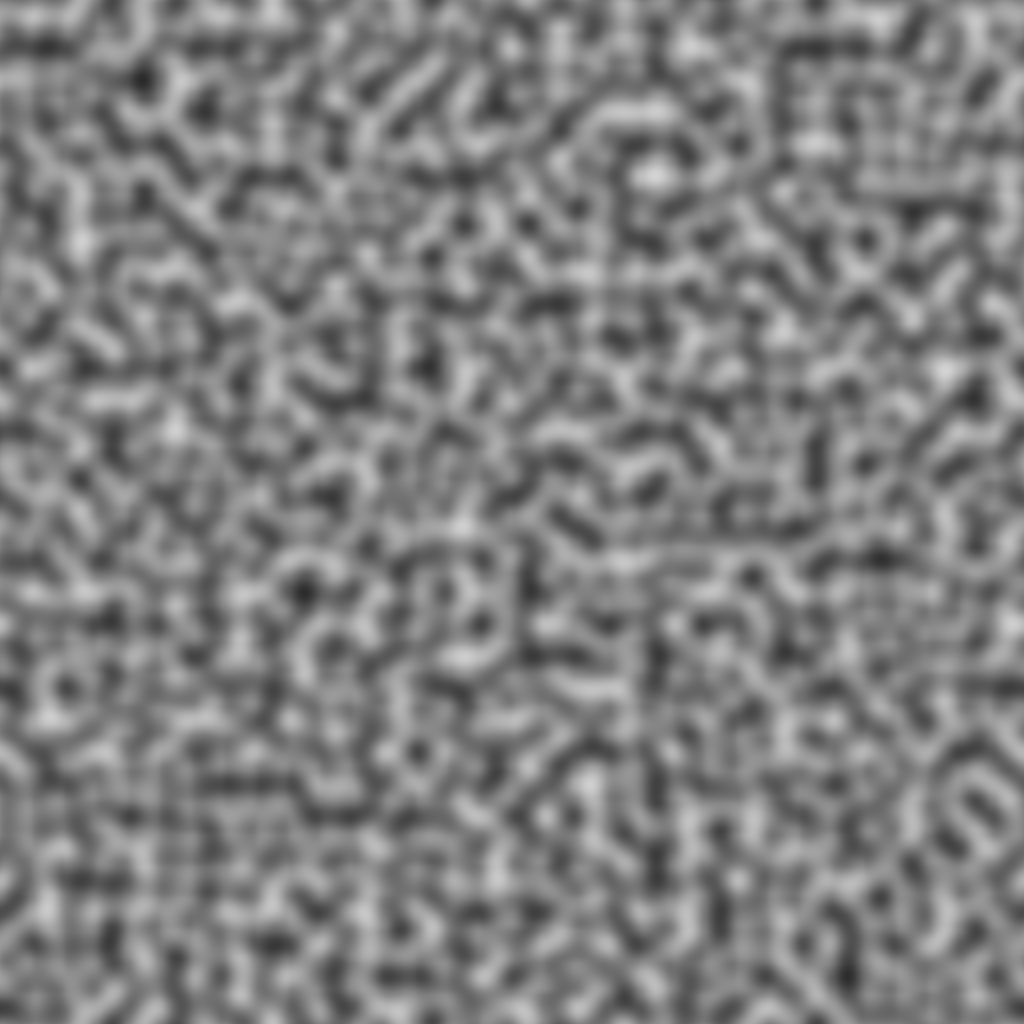
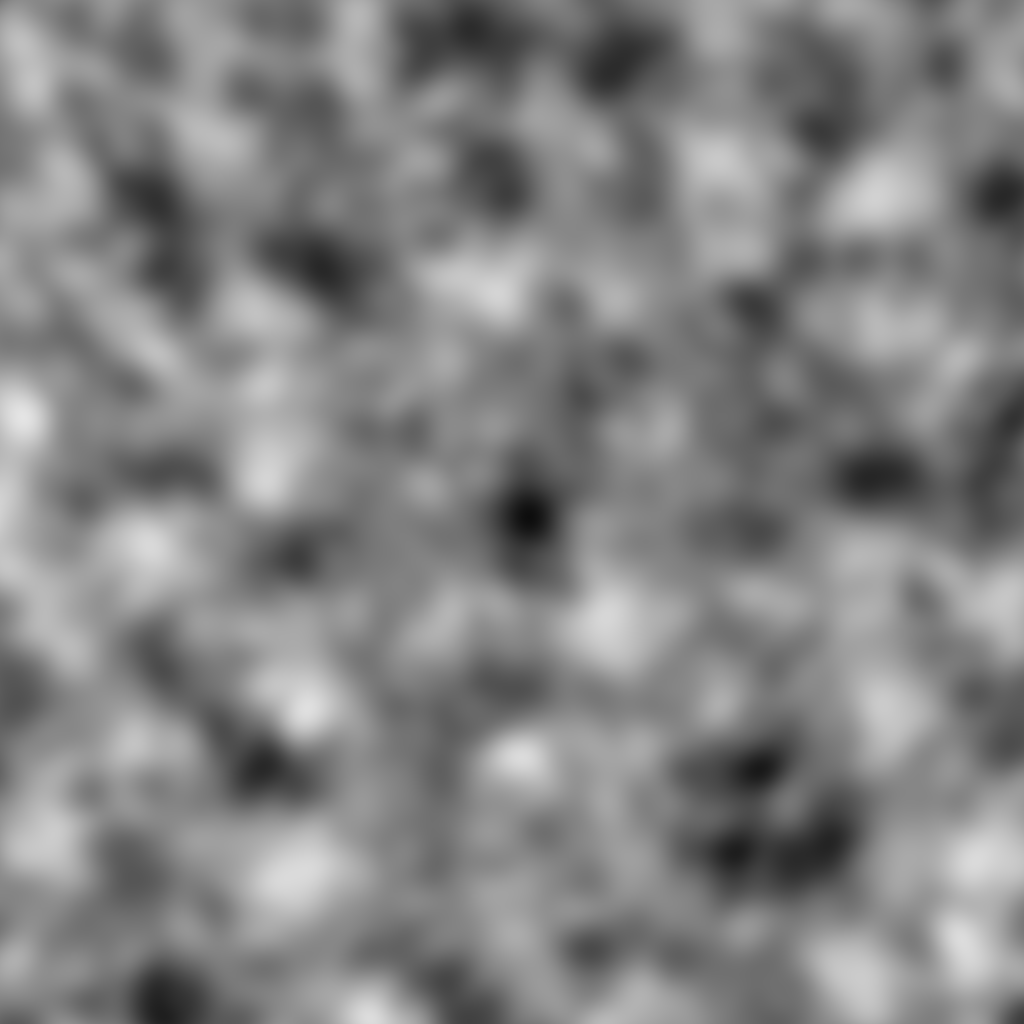
Got terrain colors working

diff --git a/GPR300_TerrainGeneration/GPR300_Lighting/main.cpp b/GPR300_TerrainGeneration/GPR300_Lighting/main.cpp
@@ -50,7 +50,7 @@ bool firstMouseInput = false;
 * */
 const int MOUSE_TOGGLE_BUTTON = 1;
 const float MOUSE_SENSITIVITY = 0.1f;
-const float CAMERA_MOVE_SPEED = 5.0f;
+const float CAMERA_MOVE_SPEED = 15.0f;
 const float CAMERA_ZOOM_SPEED = 3.0f;
 
 Camera camera((float)SCREEN_WIDTH / (float)SCREEN_HEIGHT);
@@ -81,6 +81,28 @@ ew::Mesh cylinderMesh;
 ew::Mesh terrainMesh;
 
 
+std::vector<glm::vec3> terrainColArray =
+{
+	glm::vec3(0, 0.608, 0.961), // Water
+	glm::vec3(1, 0.945, 0.475), // Sand
+	glm::vec3(0.612, 0.353, 0), // Dirt
+	glm::vec3(0.329, 0.878, 0.349), // Grass
+	glm::vec3(0.859, 0.741, 0.647), // Rock
+	glm::vec3(1, 1, 1) // Snow
+};
+
+
+std::vector<float> terrainColThresholds =
+{
+	.1,
+	.2,
+	.3,
+	.6,
+	.7,
+	1
+};
+
+
 struct GeneralLight 
 {
 	ew::Transform transform;
@@ -99,7 +121,7 @@ struct GeneralLight
 
 struct DirectionalLight
 {
-	glm::vec3 direction = glm::vec3(-1, -1, -1);
+	glm::vec3 direction = glm::vec3(0, -1, 0);
 
 	glm::vec3 color = glm::vec3(1, 1, 1);
 	float intensity = 1;
@@ -345,8 +367,8 @@ int main() {
 	ew::createCylinder(1.0f, 0.5f, 64, cylinderMeshData);
 	ew::createPlane(1.0f, 1.0f, planeMeshData);
 
-	TerrainInfo terrainInfo = TerrainInfo(1000, 1000, 1000, 0, 50);
-	NoiseInfo noiseInfo = NoiseInfo("TerrainGenerationNoise.png", 1, 3);
+	TerrainInfo terrainInfo = TerrainInfo(1000, 1000, 1000, 0, 100);
+	NoiseInfo noiseInfo = NoiseInfo("TerrainGenerationNoise.png", 3, 2);
 
 	terrainTransform.position = glm::vec3(0, -20, 0);
 	createTerrain(terrainInfo, noiseInfo, terrainMeshData);
@@ -385,7 +407,7 @@ int main() {
 	material.shininess = 8;
 
 	//GLuint texture = createTexture("PavingStones070_1K_Color.png", GL_TEXTURE0);
-	GLuint texture = createTexture("DebugSquare.png", GL_TEXTURE0);
+	GLuint texture = createTexture("terrainTexture.png", GL_TEXTURE0);
 
 	//GLuint noise = createTexture("noiseTexture.png", GL_TEXTURE1);
 
@@ -479,13 +501,14 @@ int main() {
 		GLint programIndex = 0;
 		glGetIntegerv(GL_CURRENT_PROGRAM, &programIndex);
 
-		glm::vec3 colArray[] =
-		{
-			glm::vec3(1, 0, 0),
-			glm::vec3(0, 1, 0)
-		};
+		terrainShader.setVec3("_ModelWorldPos", terrainTransform.position);
+		terrainShader.setFloat("_LocalMinHeight", 0);
+		terrainShader.setFloat("_LocalMaxHeight", 50);
 
-		glUniform3fv(glGetUniformLocation(programIndex, "_TerrainColorArray"), sizeof(colArray) / sizeof(colArray[0]), &colArray[0].x);
+		int numElements = terrainColArray.size(); // Can use for both colorArray and thresholds because they should always match
+
+		glUniform3fv(glGetUniformLocation(programIndex, "_TerrainColorArray"), numElements, &terrainColArray[0].x);
+		glUniform1fv(glGetUniformLocation(programIndex, "_TerrainColorThresholds"), numElements, &terrainColThresholds[0]);
 
 		glBindFramebuffer(GL_FRAMEBUFFER, 0);
 		glClear(GL_DEPTH_BUFFER_BIT | GL_COLOR_BUFFER_BIT);

diff --git a/GPR300_TerrainGeneration/GPR300_Lighting/TerrainGeneration.hpp b/GPR300_TerrainGeneration/GPR300_Lighting/TerrainGeneration.hpp
@@ -21,7 +21,7 @@ struct TerrainInfo
 	float maxHeight;
 
 
-	TerrainInfo(int _resolution, float _width, float _length, float _minHeight, float _maxHeight, float _heightMapBlur = 0) :
+	TerrainInfo(int _resolution, float _width, float _length, float _minHeight, float _maxHeight) :
 		resolution(_resolution), width(_width), length(_length), minHeight(_minHeight), maxHeight(_maxHeight) {}
 };
 
